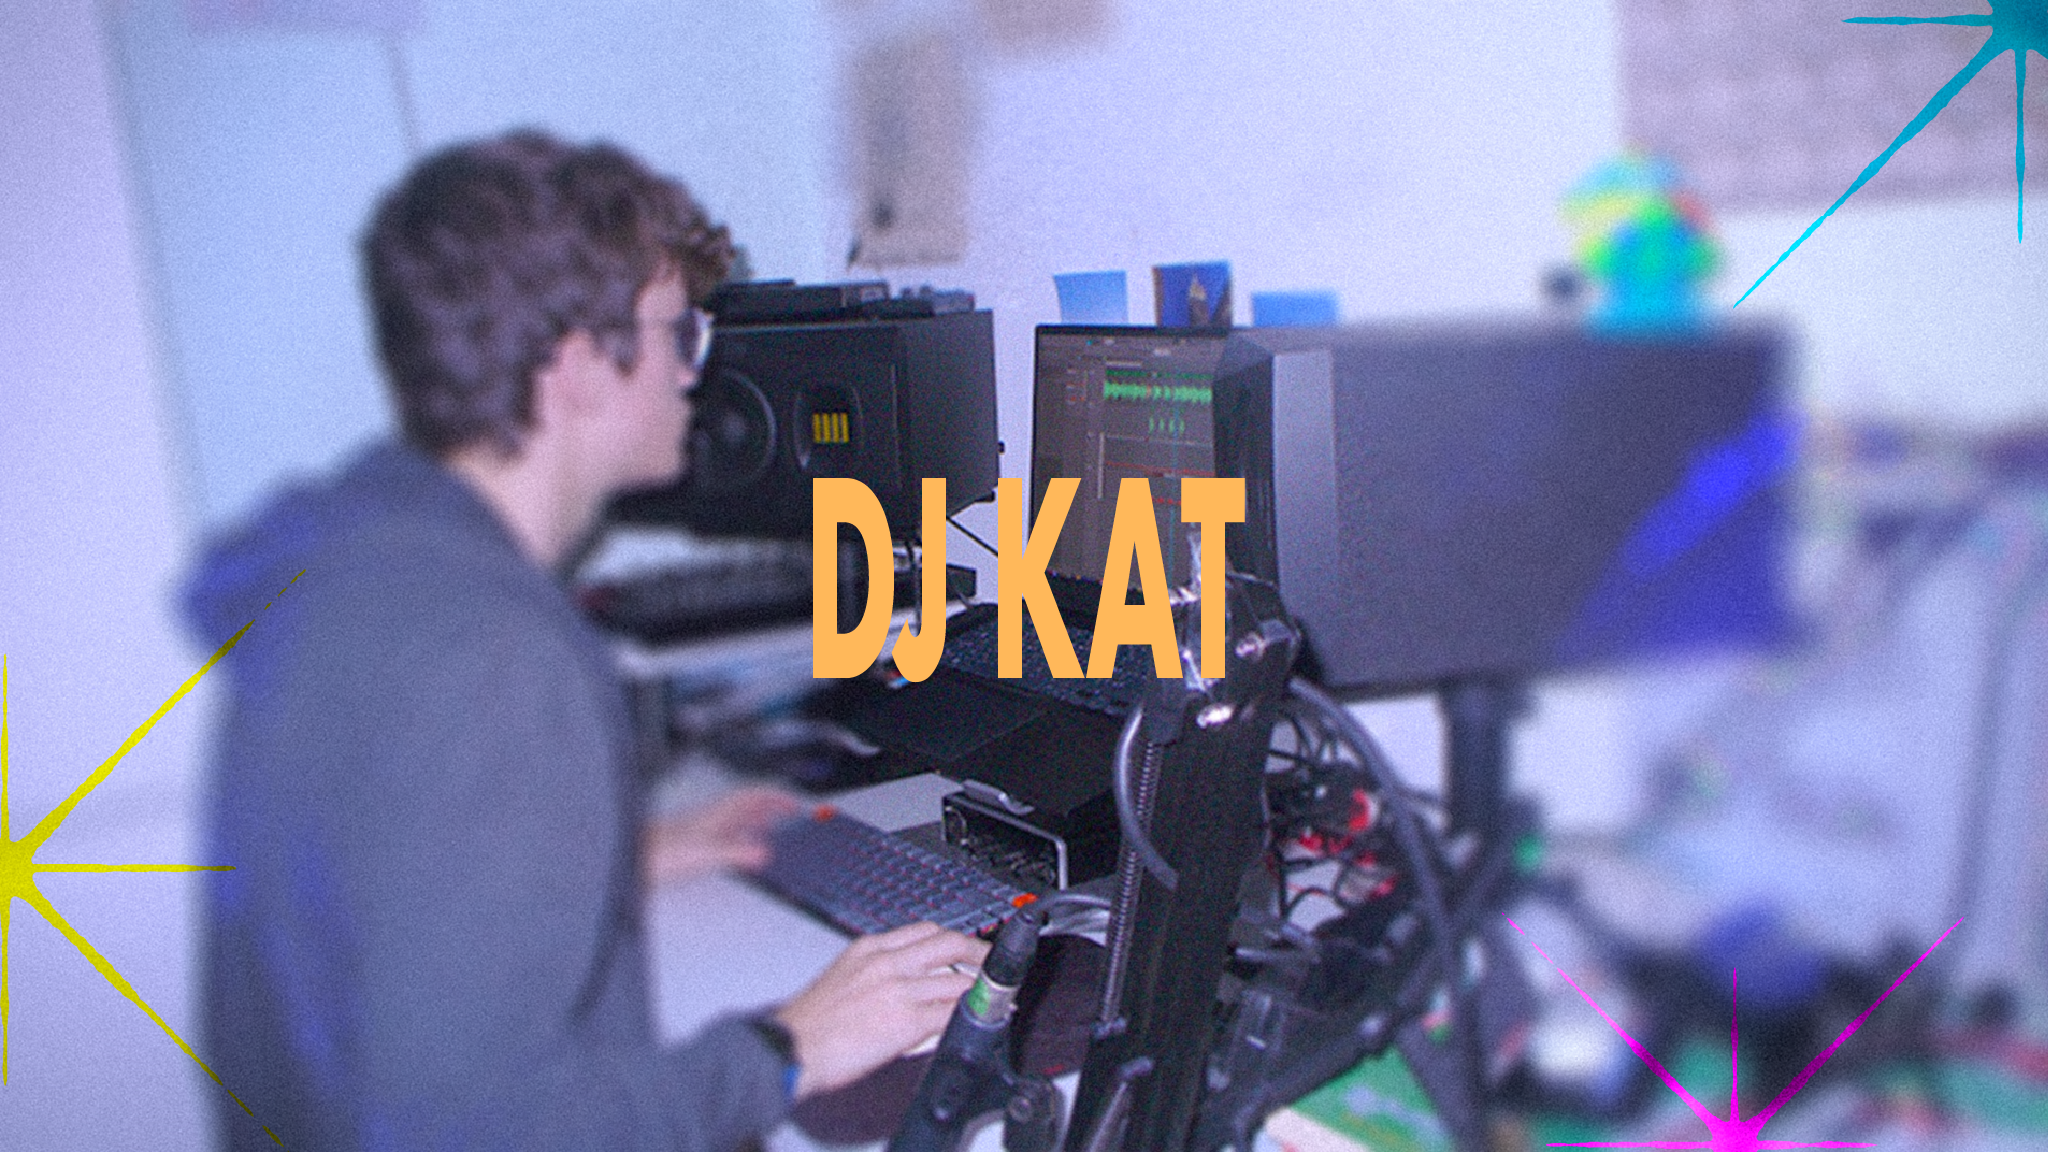
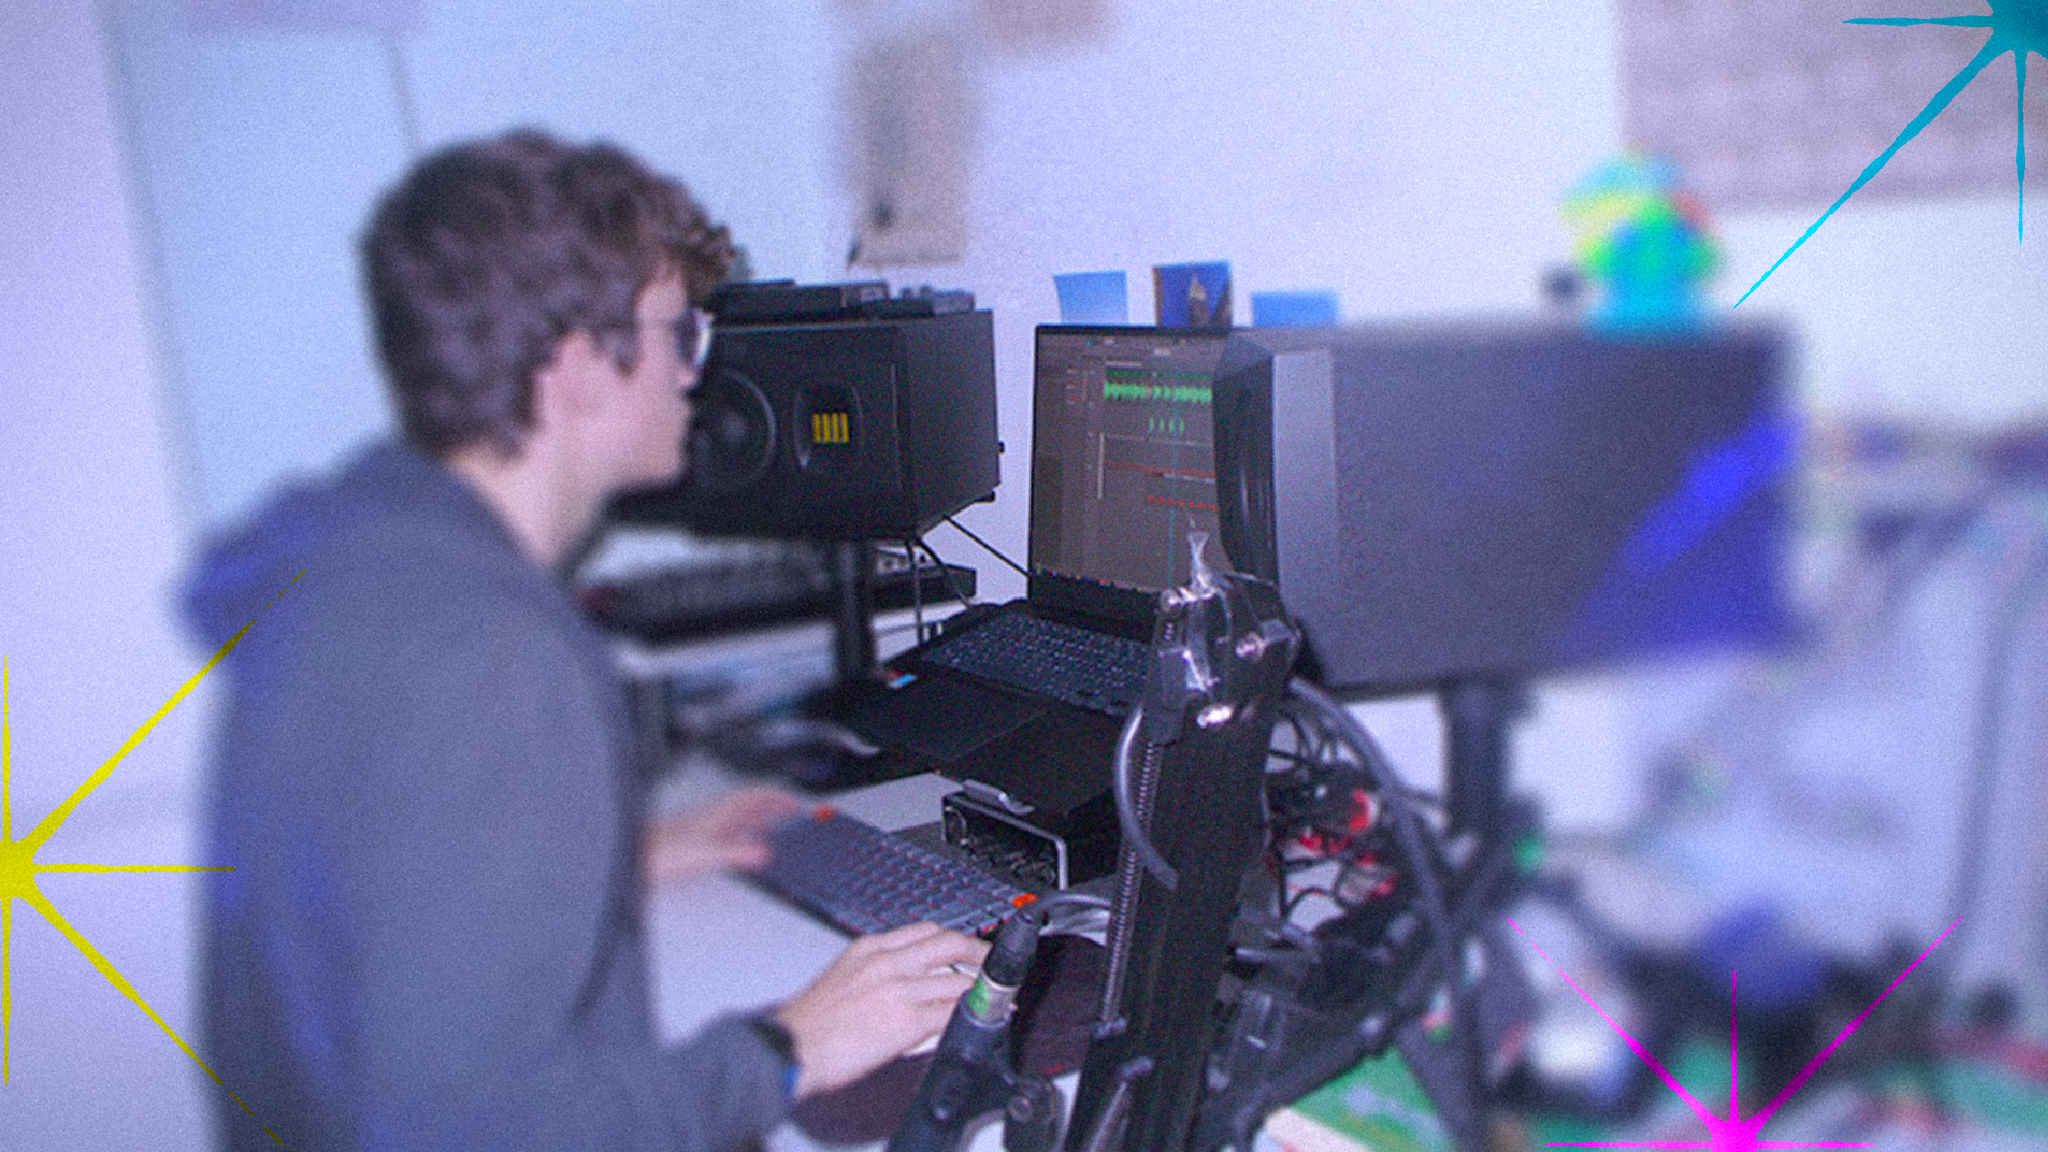
Add PhotosSlider component with image carousel functionality
- Implemented PhotosSlider component to display a carousel of images.
- Added CSS styles for slider layout, image transitions, buttons, and dots.
- Included navigation buttons for previous and next slides.
- Added dot indicators for slide navigation.
- Implemented automatic slide transition every 5 seconds.

diff --git a/src/components/PhotosSlider.tsx b/src/components/PhotosSlider.tsx
@@ -1,0 +1,87 @@
+import { useEffect, useState } from 'react';
+import djKat from '@assets/image-slider/dj_kat.png';
+import djKatStudio from '@assets/image-slider/dj_kat_studio.png';
+import djSetTremplin from '@assets/image-slider/dj_set_tremplin.png';
+import djSetSceneOuverte from '@assets/image-slider/dj_set_scene_ouverte.png';
+import './PhotosSlider.css';
+
+const images = [
+  {
+    src: djKat,
+    alt: 'DJ Kat'
+  },
+  {
+    src: djKatStudio,
+    alt: 'DJ Kat in studio'
+  },
+  {
+    src: djSetTremplin,
+    alt: 'DJ set at Tremplin'
+  },
+  {
+    src: djSetSceneOuverte,
+    alt: 'DJ set at Scene Ouverte'
+  }
+];
+
+function PhotosSlider() {
+  const [currentIndex, setCurrentIndex] = useState(0);
+
+  function goNextSlide() {
+    setCurrentIndex((prevIndex) => (prevIndex + 1) % images.length);
+  }
+
+  function goPreviousSlide() {
+    setCurrentIndex((prevIndex) => (prevIndex - 1 + images.length) % images.length);
+  }
+
+  function autoSlider() {
+    const interval = setInterval(goNextSlide, 5000);
+    return () => clearInterval(interval);
+  }
+
+  useEffect(() => {
+    return autoSlider();
+  }, []);
+
+  return (
+    <div className="slider-container">
+      <div className="slider-wrapper">
+        {images.map((image, index) => (
+          <img
+            key={index}
+            src={image.src}
+            alt={image.alt}
+            className={`slider-image ${index === currentIndex ? 'visible' : 'hidden'}`}
+          />
+        ))}
+      </div>
+      <button
+        onClick={goPreviousSlide}
+        className="slider-button prev"
+        aria-label="Previous slide"
+      >
+        ←
+      </button>
+      <button
+        onClick={goNextSlide}
+        className="slider-button next"
+        aria-label="Next slide"
+      >
+        →
+      </button>
+      <div className="slider-dots">
+        {images.map((_, index) => (
+          <button
+            key={index}
+            onClick={() => setCurrentIndex(index)}
+            className={`slider-dot ${index === currentIndex ? 'active' : 'inactive'}`}
+            aria-label={`Go to slide ${index + 1}`}
+          />
+        ))}
+      </div>
+    </div>
+  );
+}
+
+export default PhotosSlider;

diff --git a/src/components/Biography.tsx b/src/components/Biography.tsx
@@ -1,20 +1,25 @@
+import PhotosSlider from "./PhotosSlider";
+
 function Biography() {
   return (
-    <section data-testid="biography-section" className="biography columns is-0-mobile mb-6">
-      <div className="column is-half">
+    <section data-testid="biography-section" className="biography columns is-align-items-center is-0-mobile mb-6">
+      <div className="column">
         <h2 className='is-size-3 has-text-weight-bold'>Biography:</h2>
         
-        <p className='mb-4'>At just 16, DJ KAT (real name Corentin) is already making his mark 
+        <p className='mb-4'>DJ KAT is already making his mark 
           on the house music scene. A French DJ and producer with a real passion 
           for house music, he has been self-taught for the past four years, 
           creating a unique style inspired by the house sounds of the 90s and 2000s. 
           As well as mixing with fluidity on controller, CDJ and vinyl, DJ KAT 
           produces original tracks in which he weaves a rich sonic palette.</p>
         
-        <p>In particular, he likes to sample soul, funk and disco vinyl to 
+        <p className='mb-4'>In particular, he likes to sample soul, funk and disco vinyl to 
           infuse his creations with a vintage, groovy touch, adding 
           synthesizers and drum machines. His influences include icons 
           such as Thomas Bangalter, DJ Falcon, Olav Basoski and Phats & Small...</p>
+      </div>
+      <div className="column">
+        <PhotosSlider />
       </div>
     </section>
   )

diff --git a/src/components/PhotosSlider.css b/src/components/PhotosSlider.css
@@ -1,0 +1,86 @@
+.slider-container {
+  position: relative;
+  width: 100%;
+  height: 400px;
+  overflow: hidden;
+  border-radius: 2px;
+}
+
+.slider-wrapper {
+  position: relative;
+  width: 100%;
+  height: 100%;
+}
+
+.slider-image {
+  position: absolute;
+  width: 100%;
+  height: 100%;
+  object-fit: cover;
+  transition: opacity 500ms ease-in-out;
+}
+
+.slider-image.hidden {
+  opacity: 0;
+}
+
+.slider-image.visible {
+  opacity: 1;
+}
+
+.slider-button {
+  position: absolute;
+  top: 50%;
+  transform: translateY(-50%);
+  background-color: rgba(0, 0, 0, 0.5);
+  color: white;
+  padding: 8px;
+  border-radius: 50%;
+  border: none;
+  cursor: pointer;
+  transition: background-color 0.3s ease;
+}
+
+.slider-button:hover {
+  background-color: rgba(0, 0, 0, 0.7);
+}
+
+.slider-button.prev {
+  left: 16px;
+}
+
+.slider-button.next {
+  right: 16px;
+}
+
+.slider-dots {
+  position: absolute;
+  bottom: 16px;
+  left: 50%;
+  transform: translateX(-50%);
+  display: flex;
+  gap: 8px;
+}
+
+.slider-dot {
+  width: 8px;
+  height: 8px;
+  border-radius: 50%;
+  border: none;
+  cursor: pointer;
+  transition: background-color 0.3s ease;
+}
+
+.slider-dot.active {
+  background-color: white;
+}
+
+.slider-dot.inactive {
+  background-color: rgba(255, 255, 255, 0.5);
+} 
+
+@media (max-width: 64rem) {
+  .slider-container {
+    /* height: 250px; */
+  }
+}

diff --git a/src/layouts/Header.tsx b/src/layouts/Header.tsx
@@ -1,10 +1,13 @@
 import '@styles/header.css';
+import djkatLogo from '@assets/djkat_text.png'
 
 function Header() {
   return (
-    <section className="hero is-medium hero-djkat">
-      <div className="hero-body">
-        <h1 className="title is-sr-only">DJ KAT</h1>
+    <section className="hero is-small hero-djkat">
+      <div className="hero-body is-flex is-align-items-center is-justify-content-center">
+        <h1 className="djkat-logo has-text-warning is-size-1">
+          <img className='image-logo' src={djkatLogo} alt='DJ KAT' />
+        </h1>
       </div>
     </section>
   );

diff --git a/src/components/SocialNetworksMenu.tsx b/src/components/SocialNetworksMenu.tsx
@@ -8,7 +8,7 @@ function SocialNetworkMenu() {
         {socialNetworks.map((socialNetwork) => (
           <a
             key={socialNetwork.name}
-            className="button is-large is-rounded is-flex is-justify-content-center is-align-items-center min-width-200px is-full-width-mobile"
+            className="button is-large is-rounded is-warning is-outlined has-text-warning-invert is-flex is-justify-content-center is-align-items-center min-width-200px is-full-width-mobile"
             href={socialNetwork.url}
             target="_blank"
             rel="noreferrer"

diff --git a/src/App.tsx b/src/App.tsx
@@ -25,7 +25,7 @@ function App() {
     <div className="app">
       <NotificationContainer />
       <SocialNetworkMenu />
-      <main className='container px-2 mb-5'>
+      <main className='container px-4 mb-5'>
         <Biography />
         <h2 className='is-size-3 has-text-weight-bold mb-1'>Last Releases:</h2>
         <div className="columns is-0-mobile is-multiline is-justify-content-center">

diff --git a/src/styles/header.css b/src/styles/header.css
@@ -14,9 +14,25 @@
   }
 }
 
+.djkat-logo {
+  display: flex;
+}
+
+.image-logo {
+  width: auto;
+  max-height: 15rem;
+  margin: 0 auto;
+}
+
 @media (max-width: 64rem) {
   .hero-djkat {
-      height: 15rem;
+    height: 16rem;
+    background-image: cover;
+  }
+
+  .image-logo {
+    width: auto;
+    max-height: 12rem;
   }
 }
 
